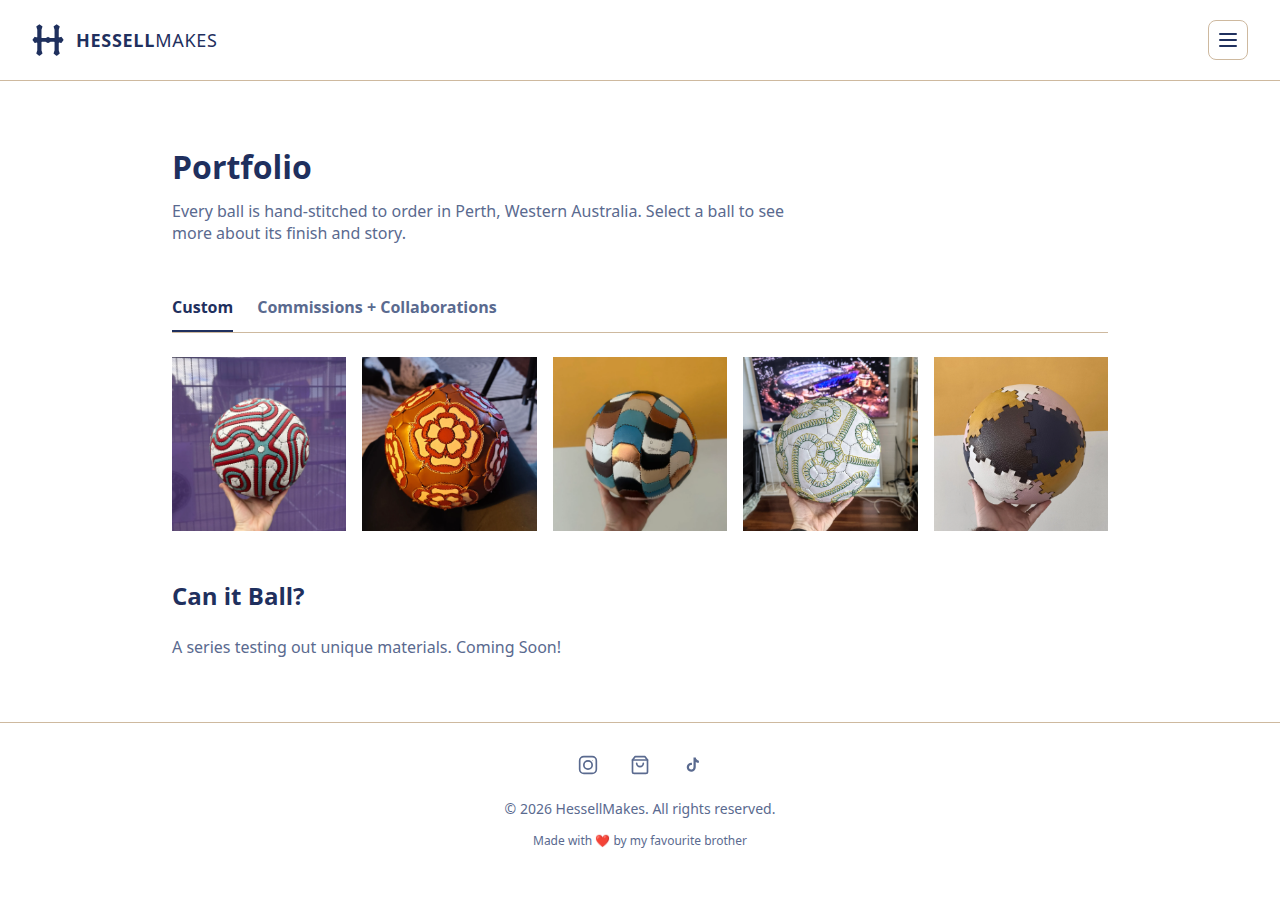
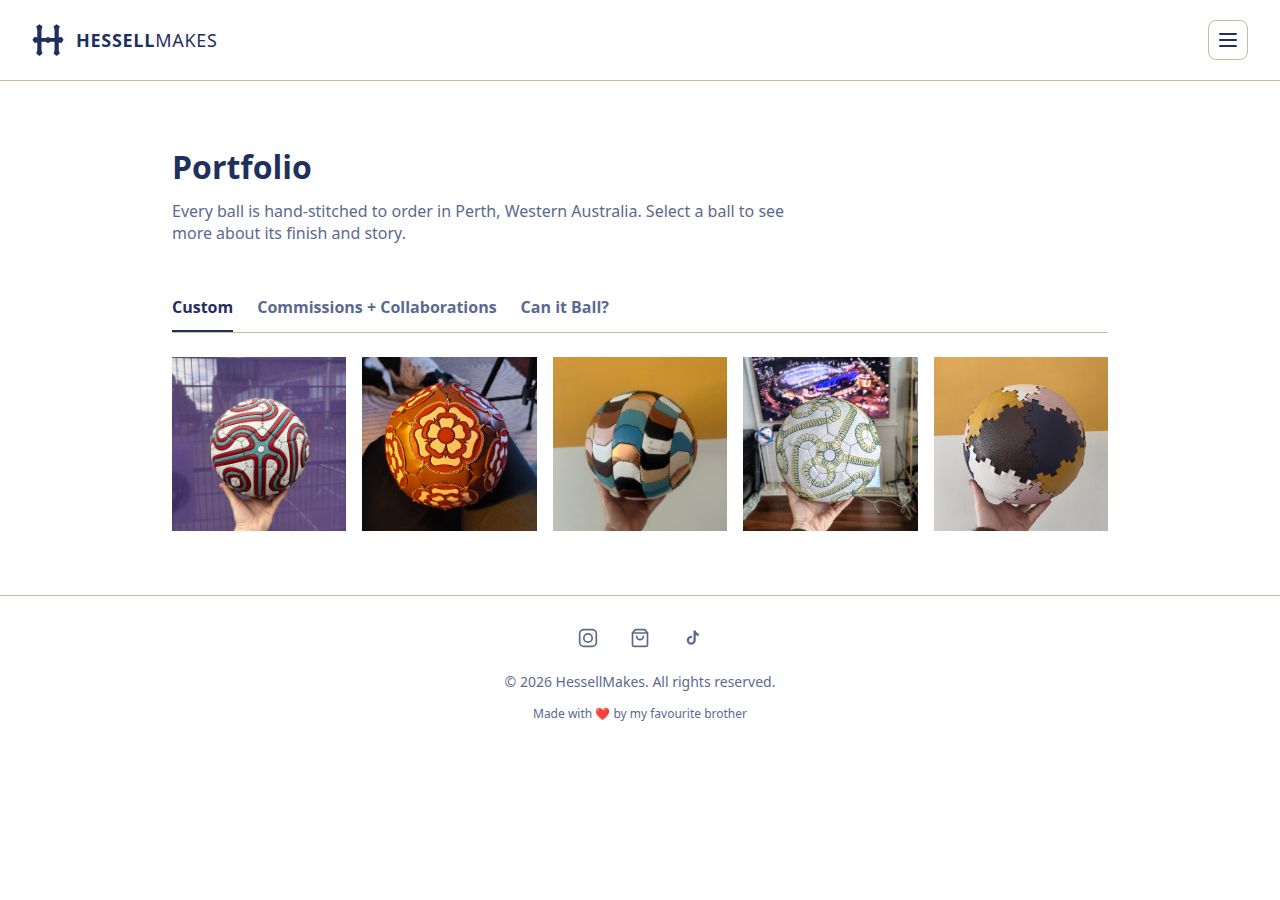
feat(portfolio): add Can it Ball tab

diff --git a/src/pages/Portfolio.tsx b/src/pages/Portfolio.tsx
@@ -21,6 +21,7 @@ const SWIPE_THRESHOLD = 50;
 const collections = [
   { category: 'custom', title: 'Custom' },
   { category: 'commission', title: 'Commissions + Collaborations' },
+  { category: 'can-it-ball', title: 'Can it Ball?' },
 ] as const;
 
 export function Portfolio() {
@@ -188,33 +189,38 @@ export function Portfolio() {
           aria-labelledby={`portfolio-tab-${category}`}
           hidden={activeCategory !== category}
         >
-          <ul className={styles.grid}>
-            {soccerBalls.map((ball, index) =>
-              ball.category === category ? (
-                <li key={ball.id}>
-                  <button
-                    type="button"
-                    className={styles.card}
-                    aria-label={ball.name}
-                    onClick={() => openBall(index)}
-                  >
-                    <img
-                      className={styles.cardImage}
-                      src={ball.imageSrc}
-                      alt=""
-                    />
-                  </button>
-                </li>
-              ) : null,
-            )}
-          </ul>
+          {category === 'can-it-ball' ? (
+            <section
+              className={styles.collection}
+              aria-labelledby="can-it-ball"
+            >
+              <h2 id="can-it-ball">Can it Ball?</h2>
+              <p>A series testing out unique materials. Coming Soon!</p>
+            </section>
+          ) : (
+            <ul className={styles.grid}>
+              {soccerBalls.map((ball, index) =>
+                ball.category === category ? (
+                  <li key={ball.id}>
+                    <button
+                      type="button"
+                      className={styles.card}
+                      aria-label={ball.name}
+                      onClick={() => openBall(index)}
+                    >
+                      <img
+                        className={styles.cardImage}
+                        src={ball.imageSrc}
+                        alt=""
+                      />
+                    </button>
+                  </li>
+                ) : null,
+              )}
+            </ul>
+          )}
         </section>
       ))}
-
-      <section className={styles.collection} aria-labelledby="can-it-ball">
-        <h2 id="can-it-ball">Can it Ball?</h2>
-        <p>A series testing out unique materials. Coming Soon!</p>
-      </section>
 
       <dialog
         ref={dialogRef}

diff --git a/src/pages/Portfolio.test.tsx b/src/pages/Portfolio.test.tsx
@@ -27,9 +27,12 @@ function swipe(
   });
 }
 
-function selectCollection(category: 'custom' | 'commission') {
-  const name =
-    category === 'custom' ? 'Custom' : 'Commissions + Collaborations';
+function selectCollection(category: 'custom' | 'commission' | 'can-it-ball') {
+  const name = {
+    custom: 'Custom',
+    commission: 'Commissions + Collaborations',
+    'can-it-ball': 'Can it Ball?',
+  }[category];
   fireEvent.click(screen.getByRole('tab', { name }));
 }
 
@@ -44,6 +47,7 @@ describe('Portfolio', () => {
     expect(screen.getAllByRole('tab').map((tab) => tab.textContent)).toEqual([
       'Custom',
       'Commissions + Collaborations',
+      'Can it Ball?',
     ]);
     expect(screen.getByRole('tab', { name: 'Custom' })).toHaveAttribute(
       'aria-selected',
@@ -85,6 +89,11 @@ describe('Portfolio', () => {
     expect(
       screen.queryByRole('button', { name: 'Triple Truchet Tile' }),
     ).not.toBeInTheDocument();
+
+    expect(
+      screen.queryByRole('region', { name: 'Can it Ball?' }),
+    ).not.toBeInTheDocument();
+    selectCollection('can-it-ball');
     const comingSoon = screen.getByRole('region', { name: 'Can it Ball?' });
     expect(
       within(comingSoon).getByText(
@@ -106,7 +115,12 @@ describe('Portfolio', () => {
     expect(commissionTab).toHaveAttribute('aria-selected', 'true');
     expect(commissionTab).toHaveFocus();
 
-    fireEvent.keyDown(commissionTab, { key: 'Home' });
+    fireEvent.keyDown(commissionTab, { key: 'ArrowRight' });
+    const canItBallTab = screen.getByRole('tab', { name: 'Can it Ball?' });
+    expect(canItBallTab).toHaveAttribute('aria-selected', 'true');
+    expect(canItBallTab).toHaveFocus();
+
+    fireEvent.keyDown(canItBallTab, { key: 'Home' });
     expect(customTab).toHaveAttribute('aria-selected', 'true');
     expect(customTab).toHaveFocus();
   });
@@ -374,6 +388,9 @@ describe('Portfolio', () => {
     await expectNoA11yViolations(container);
 
     selectCollection('commission');
+    await expectNoA11yViolations(container);
+
+    selectCollection('can-it-ball');
     await expectNoA11yViolations(container);
 
     openBall(soccerBalls[0]);

diff --git a/CLAUDE.md b/CLAUDE.md
@@ -199,7 +199,7 @@ Write each media query in range notation - Stylelint enforces this format.
 **Portfolio pattern**: `src/pages/Portfolio.tsx` shows the standard pattern for a grid of items, where a click on an item opens a native `<dialog>` element.
 The product data sits in a separate file, `src/data/soccerBalls.ts`, and each photo comes from `src/assets/gallery/`.
 The Portfolio uses a borderless image grid with a gutter between balls and no visible ball names.
-It has Custom and Commissions + Collaborations tabs.
+It has Custom, Commissions + Collaborations, and Can it Ball? tabs.
 Each image button has the ball name as its accessible label.
 Each grid thumbnail has `alt=""` to avoid repeating the button label.
 The dialog shows the completion date, construction details, and story.
